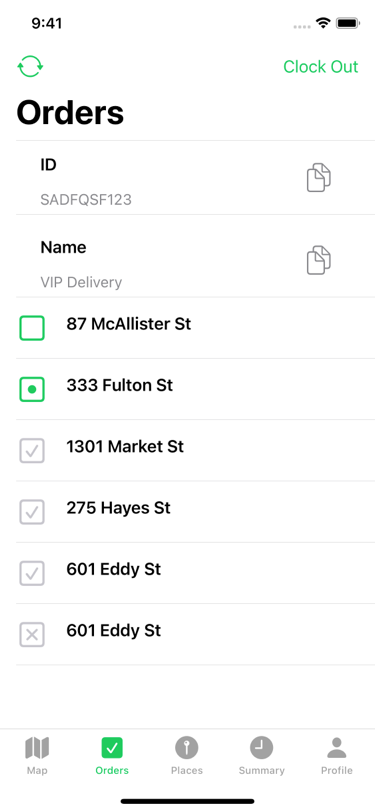
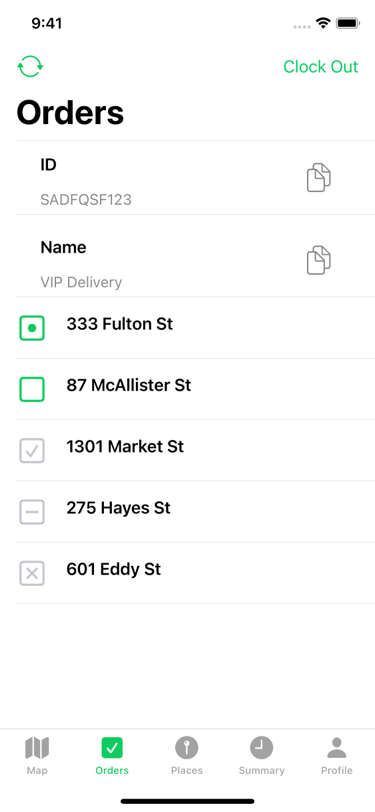
Update screenshots

diff --git a/Visits/Screenshots.swift b/Visits/Screenshots.swift
@@ -16,18 +16,24 @@ extension AppState {
   
   static let orderScreenshot = Self.operational(
     operational_ |> \.flow *< .main(
-      main |> \.selectedOrderId *< .some(notSent.id)
+      main |> \.selectedOrderId *< .some(ongoing.id)
            <> \.tab *< .orders
     )
   )
   
   static let placesScreenshot = Self.operational(
     operational_ |> \.flow *< .main(
-      main |> \.places *< .init(
-        places: [cityHall, artsCenter],
-        requestedAt: Date(),
-        driveDistancesForDaysWithVisits: NonEmptyArray(rawValue: [UInt?](repeating: nil, count: 60))!
-      )
+      main |> \.places *< .some(placesSummary)
+           <> \.history *< history
+           <> \.tab *< .places
+    )
+  )
+
+  static let visitsScreenshot = Self.operational(
+    operational_ |> \.flow *< .main(
+      main |> \.places *< .some(placesSummary)
+           <> \.placesPresentation *< .byVisit
+           <> \.history *< history
            <> \.tab *< .places
     )
   )
@@ -35,41 +41,7 @@ extension AppState {
   static let mapScreenshot = Self.operational(
     operational_ |> \.flow *< .main(
       main |> \.trip *< .some(trip)
-           <> \.history *< History(
-                             coordinates: [
-                               Coordinate(latitude: 37.76477793772538, longitude: -122.41957068443297)!,
-                               Coordinate(latitude: 37.76477793772538, longitude: -122.4196484684944)!,
-                               Coordinate(latitude: 37.77180875405714, longitude: -122.42035388946533)!,
-                               Coordinate(latitude: 37.7730130005326, longitude: -122.42180228233337)!,
-                               Coordinate(latitude: 37.773962814902774, longitude: -122.42069721221922)!,
-                               Coordinate(latitude: 37.776659542769934, longitude: -122.42124438285828)!,
-                               Coordinate(latitude: 37.77676978426915, longitude: -122.42056846618652)!,
-                               Coordinate(latitude: 37.77657474150483, longitude: -122.42050409317015)!,
-                               Coordinate(latitude: 37.77662562227558, longitude: -122.42010712623598)!,
-                               Coordinate(latitude: 37.77690546588866, longitude: -122.42021441459654)!,
-                               Coordinate(latitude: 37.77686306540933, longitude: -122.42057919502257)!,
-                               Coordinate(latitude: 37.77676978426915, longitude: -122.4204933643341)!,
-                               Coordinate(latitude: 37.77671890359764, longitude: -122.42127656936647)!,
-                               Coordinate(latitude: 37.77894914015784, longitude: -122.42174863815306)!,
-                               Coordinate(latitude: 37.77886434151916, longitude: -122.42224216461183)!,
-                               Coordinate(latitude: 37.77883042203647, longitude: -122.4221885204315)!,
-                               Coordinate(latitude: 37.77883042203647, longitude: -122.42229580879211)!,
-                               Coordinate(latitude: 37.779000019294344, longitude: -122.42170572280882)!,
-                               Coordinate(latitude: 37.77989039851448, longitude: -122.42190957069396)!,
-                               Coordinate(latitude: 37.780085432530804, longitude: -122.42036461830139)!,
-                               Coordinate(latitude: 37.774929577713245, longitude: -122.41936683654784)!,
-                               Coordinate(latitude: 37.77681218480201, longitude: -122.41704940795898)!,
-                               Coordinate(latitude: 37.77671890359764, longitude: -122.41700649261476)!,
-                               Coordinate(latitude: 37.77682066490566, longitude: -122.41694211959839)!,
-                               Coordinate(latitude: 37.77686306540933, longitude: -122.41694211959839)!,
-                               Coordinate(latitude: 37.77739730967186, longitude: -122.41634130477905)!,
-                               Coordinate(latitude: 37.78331613854221, longitude: -122.41753220558167)!,
-                               Coordinate(latitude: 37.78321438617593, longitude: -122.41843342781067)!,
-                               Coordinate(latitude: 37.78309567490489, longitude: -122.41842806339264)!,
-                               Coordinate(latitude: 37.783019360415665, longitude: -122.4183851480484)!,
-                               Coordinate(latitude: 37.78315503056424, longitude: -122.41850852966309)!
-                             ]
-                           )
+           <> \.history *< history
            <> \.tab *< .map
     )
   )
@@ -98,8 +70,43 @@ extension AppState {
   )
 }
 
+private let history = History(
+  coordinates: [
+    Coordinate(latitude: 37.76477793772538, longitude: -122.41957068443297)!,
+    Coordinate(latitude: 37.76477793772538, longitude: -122.4196484684944)!,
+    Coordinate(latitude: 37.77180875405714, longitude: -122.42035388946533)!,
+    Coordinate(latitude: 37.7730130005326, longitude: -122.42180228233337)!,
+    Coordinate(latitude: 37.773962814902774, longitude: -122.42069721221922)!,
+    Coordinate(latitude: 37.776659542769934, longitude: -122.42124438285828)!,
+    Coordinate(latitude: 37.77676978426915, longitude: -122.42056846618652)!,
+    Coordinate(latitude: 37.77657474150483, longitude: -122.42050409317015)!,
+    Coordinate(latitude: 37.77662562227558, longitude: -122.42010712623598)!,
+    Coordinate(latitude: 37.77690546588866, longitude: -122.42021441459654)!,
+    Coordinate(latitude: 37.77686306540933, longitude: -122.42057919502257)!,
+    Coordinate(latitude: 37.77676978426915, longitude: -122.4204933643341)!,
+    Coordinate(latitude: 37.77671890359764, longitude: -122.42127656936647)!,
+    Coordinate(latitude: 37.77894914015784, longitude: -122.42174863815306)!,
+    Coordinate(latitude: 37.77886434151916, longitude: -122.42224216461183)!,
+    Coordinate(latitude: 37.77883042203647, longitude: -122.4221885204315)!,
+    Coordinate(latitude: 37.77883042203647, longitude: -122.42229580879211)!,
+    Coordinate(latitude: 37.779000019294344, longitude: -122.42170572280882)!,
+    Coordinate(latitude: 37.77989039851448, longitude: -122.42190957069396)!,
+    Coordinate(latitude: 37.780085432530804, longitude: -122.42036461830139)!,
+    Coordinate(latitude: 37.774929577713245, longitude: -122.41936683654784)!,
+    Coordinate(latitude: 37.77681218480201, longitude: -122.41704940795898)!,
+    Coordinate(latitude: 37.77671890359764, longitude: -122.41700649261476)!,
+    Coordinate(latitude: 37.77682066490566, longitude: -122.41694211959839)!,
+    Coordinate(latitude: 37.77686306540933, longitude: -122.41694211959839)!,
+    Coordinate(latitude: 37.77739730967186, longitude: -122.41634130477905)!,
+    Coordinate(latitude: 37.78331613854221, longitude: -122.41753220558167)!,
+    Coordinate(latitude: 37.78321438617593, longitude: -122.41843342781067)!,
+    Coordinate(latitude: 37.78309567490489, longitude: -122.41842806339264)!,
+    Coordinate(latitude: 37.783019360415665, longitude: -122.4183851480484)!,
+    Coordinate(latitude: 37.78315503056424, longitude: -122.41850852966309)!
+  ]
+)
 
-private let notSent = Order(
+private let ongoing = Order(
   id: Order.ID(rawValue: "ID4"),
   createdAt: Calendar.current.date(bySettingHour: 9, minute: 37, second: 0, of: Date())!,
   location: Coordinate(latitude: 37.780592, longitude: -122.413322)!,
@@ -116,7 +123,7 @@ private let notSent = Order(
   ]
 )
 
-private let entered = Order(
+private let visited = Order(
   id: Order.ID(rawValue: "ID7"),
   createdAt: Calendar.current.date(bySettingHour: 9, minute: 40, second: 0, of: Date())!,
   location: Coordinate(latitude: 37.778655, longitude: -122.422231)!,
@@ -129,7 +136,7 @@ private let entered = Order(
   visited: .entered(Date())
 )
 
-private let checkedOut1 = Order(
+private let completed = Order(
   id: Order.ID(rawValue: "ID1"),
   createdAt: Calendar.current.date(bySettingHour: 9, minute: 35, second: 0, of: Date())!,
   location: Coordinate(latitude: 37.776692, longitude: -122.416557)!,
@@ -142,7 +149,7 @@ private let checkedOut1 = Order(
   visited: .entered(Date())
 )
 
-private let checkedOut2 = Order(
+private let snoozed = Order(
   id: Order.ID(rawValue: "ID2"),
   createdAt: Calendar.current.date(bySettingHour: 9, minute: 36, second: 0, of: Date())!,
   location: Coordinate(latitude: 37.776753, longitude: -122.420371)!,
@@ -150,20 +157,7 @@ private let checkedOut2 = Order(
     street: Street(rawValue: "275 Hayes St"),
     fullAddress: FullAddress(rawValue: "275 Hayes St, San Francisco, CA  94102, United States")
   ),
-  status: .completed(Date()),
-  note: nil,
-  visited: .entered(Date())
-)
-
-private let checkedOut3 = Order(
-  id: Order.ID(rawValue: "ID5"),
-  createdAt: Calendar.current.date(bySettingHour: 9, minute: 38, second: 0, of: Date())!,
-  location: Coordinate(latitude: 37.783049, longitude: -122.418242)!,
-  address: .init(
-    street: Street(rawValue: "601 Eddy St"),
-    fullAddress: FullAddress(rawValue: "601 Eddy St, San Francisco, CA  94109, United States")
-  ),
-  status: .completed(Date()),
+  status: .snoozed,
   note: nil,
   visited: .entered(Date())
 )
@@ -181,9 +175,22 @@ private let canceled = Order(
   visited: .entered(Date())
 )
 
-private let orders = IdentifiedArrayOf<Order>(uniqueElements: [notSent, entered, checkedOut1, checkedOut2, checkedOut3, canceled])
+private let orders = IdentifiedArrayOf<Order>(
+  uniqueElements: [
+    visited,
+    ongoing,
+    completed,
+    snoozed,
+    canceled
+  ]
+)
 
-private let trip = Trip(id: "SADFQSF123", createdAt: Calendar.current.date(bySettingHour: 9, minute: 38, second: 0, of: Date())!, status: .active, orders: orders.elements, metadata: ["Name": "VIP Delivery"])
+private let trip = Trip(
+  id: "SADFQSF123",
+  createdAt: Calendar.current.date(bySettingHour: 9, minute: 38, second: 0, of: Date())!,
+  status: .active, orders: orders.elements,
+  metadata: ["Name": "VIP Delivery"]
+)
 
 private let cityHall = Place(
   id: "1",
@@ -237,6 +244,12 @@ private let artsCenter = Place(
   ]
 )
 
+private let placesSummary = PlacesSummary(
+  places: [cityHall, artsCenter],
+  requestedAt: Date(),
+  driveDistancesForDaysWithVisits: NonEmptyArray(rawValue: [UInt?](repeating: 12345, count: 60))!
+)
+
 private let publishableKey = PublishableKey(rawValue: "Key")
 private let deviceID = DeviceID(rawValue: "UNIQUE-ID")
 private let permissions = Permissions(
@@ -269,5 +282,6 @@ private let main = MainState(
   places: nil,
   tab: .orders,
   publishableKey: publishableKey,
-  profile: .init(name: "User", metadata: ["email": "user@company.com"])
+  profile: .init(name: "User", metadata: ["email": "user@company.com"]),
+  integrationStatus: .integrated(.notRefreshing)
 )
